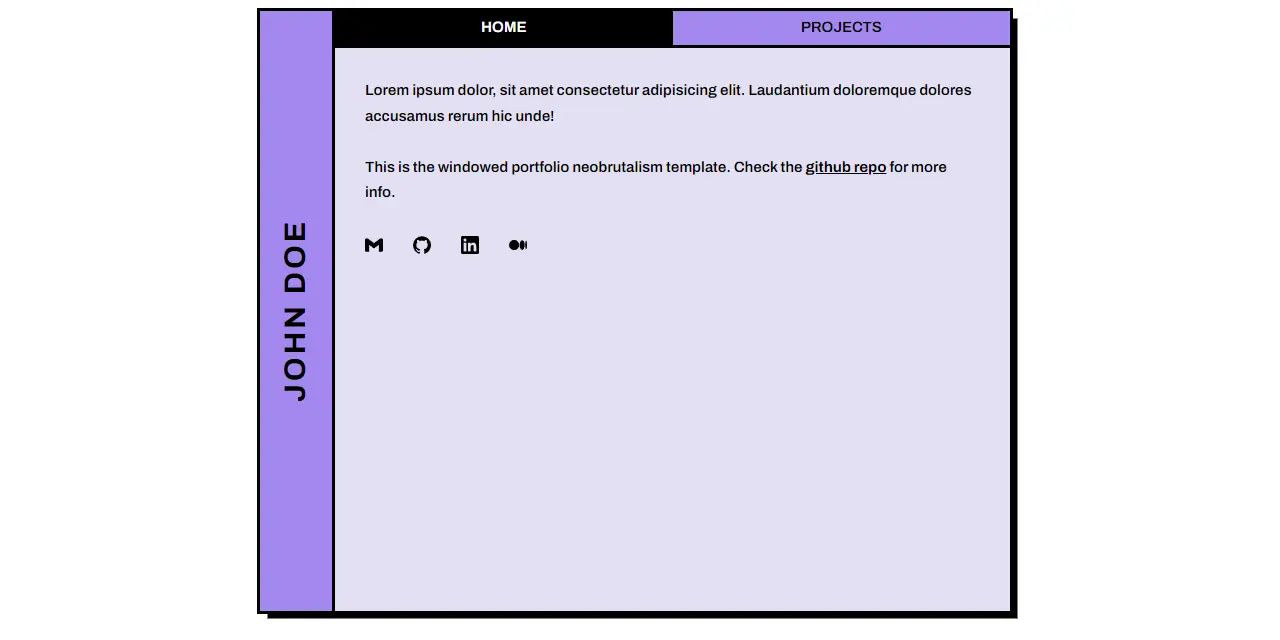
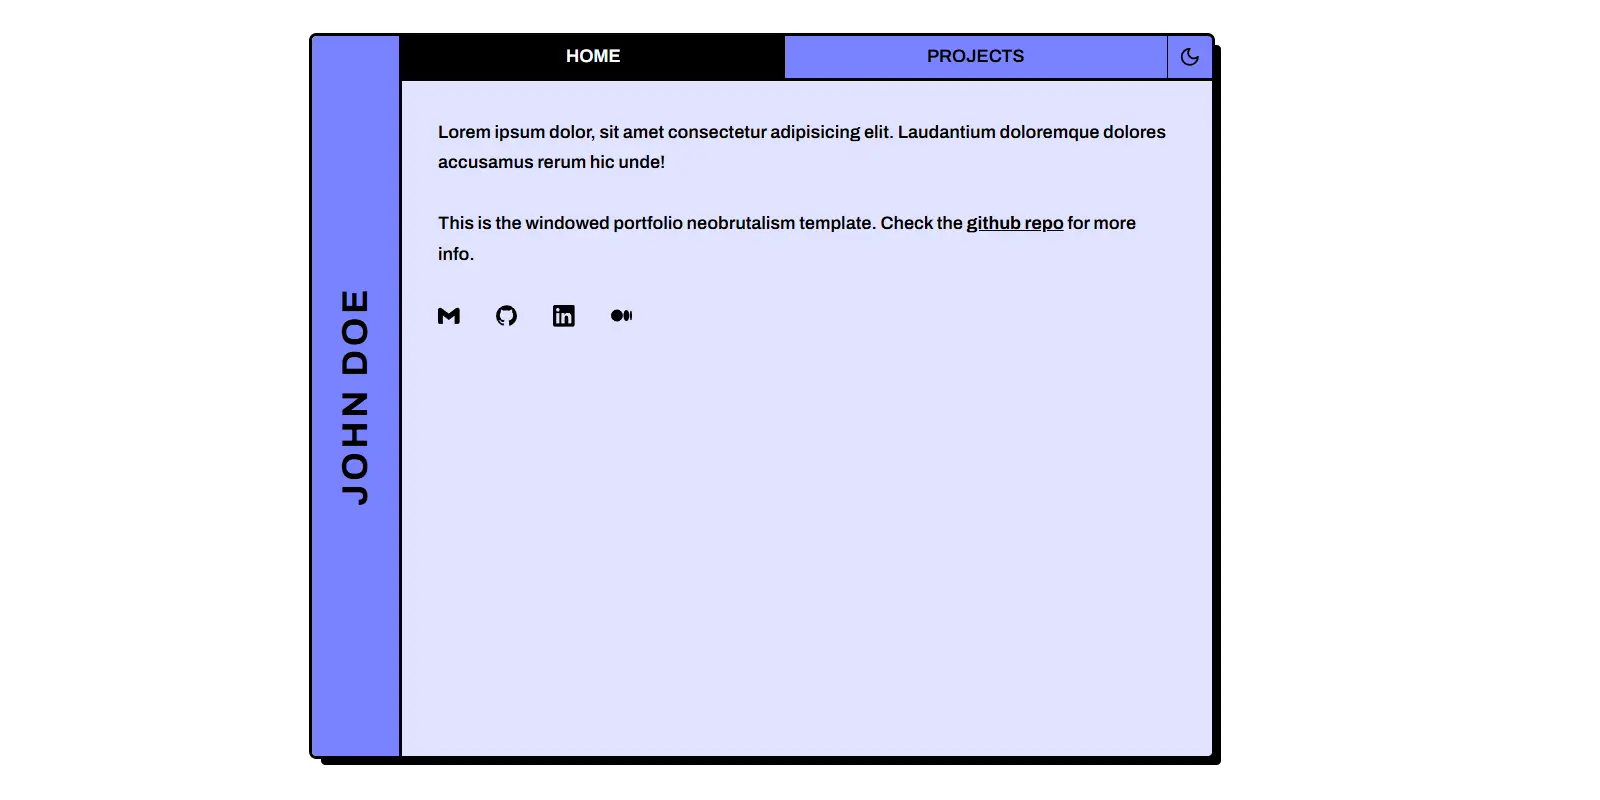
removed saas template and updated template previews

Changed region(s): [[0.1875, 0.0, 0.8125, 0.9688]]

diff --git a/src/data/templates.ts b/src/data/templates.ts
@@ -1,44 +1,36 @@
 import bento from "@public/template-previews/bento.webp"
 import blog from "@public/template-previews/blog.webp"
 import portfolio from "@public/template-previews/portfolio.webp"
-import saas from "@public/template-previews/saas.webp"
 import windowedPortfolio from "@public/template-previews/windowed-portfolio.webp"
 
 const TEMPLATES = [
-  {
-    title: "Saas",
-    previewImg: saas,
-    liveUrl: "https://neobrutalism-saas.netlify.app/",
-    repoUrl: "https://github.com/neobrutalism-templates/saas",
-    color: "#A3E636",
-  },
-  {
-    title: "Windowed portfolio",
-    previewImg: windowedPortfolio,
-    liveUrl: "https://neobrutalism-windowed-portfolio.netlify.app/",
-    repoUrl: "https://github.com/neobrutalism-templates/windowed-portfolio",
-    color: "#a388ee",
-  },
-  {
-    title: "Bento",
-    previewImg: bento,
-    liveUrl: "https://neobrutalism-bento.netlify.app/",
-    repoUrl: "https://github.com/neobrutalism-templates/bento",
-    color: "#88aaee",
-  },
   {
     title: "Portfolio",
     previewImg: portfolio,
     liveUrl: "https://neobrutalism-portfolio.netlify.app/",
     repoUrl: "https://github.com/neobrutalism-templates/portfolio",
-    color: "#FD9745",
+    color: "#ff7b07",
   },
   {
     title: "Blog",
     previewImg: blog,
     liveUrl: "https://neobrutalism-blog.netlify.app/",
     repoUrl: "https://github.com/neobrutalism-templates/blog",
-    color: "#FFDC58",
+    color: "#ffbe00",
+  },
+  {
+    title: "Windowed portfolio",
+    previewImg: windowedPortfolio,
+    liveUrl: "https://neobrutalism-windowed-portfolio.netlify.app/",
+    repoUrl: "https://github.com/neobrutalism-templates/windowed-portfolio",
+    color: "#7983ff",
+  },
+  {
+    title: "Bento",
+    previewImg: bento,
+    liveUrl: "https://neobrutalism-bento.netlify.app/",
+    repoUrl: "https://github.com/neobrutalism-templates/bento",
+    color: "#5093fe",
   },
 ]
 
